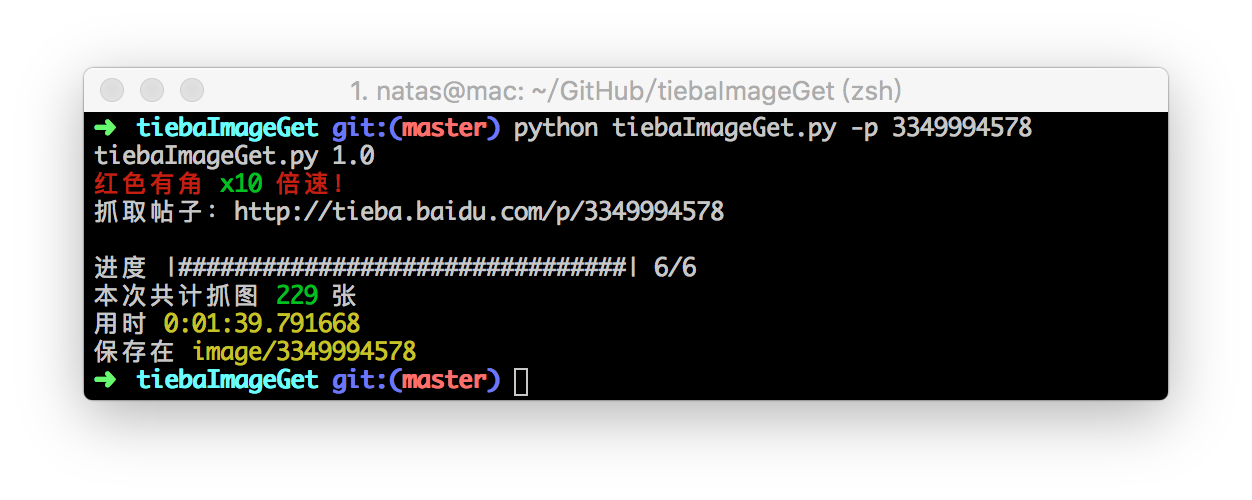
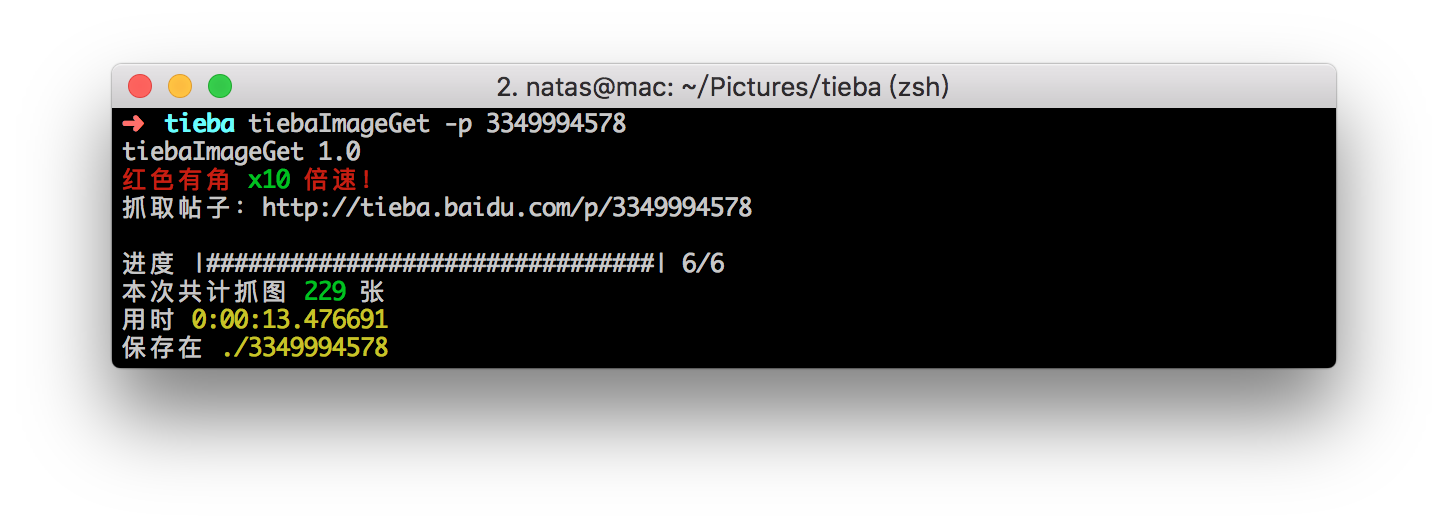
update README

Changed region(s): [[0.0623, 0.12, 0.9345, 0.81]]

diff --git a/README.md b/README.md
@@ -2,24 +2,36 @@ tiebaImageGet
 =============
 
 贴吧图楼爬图器
+### 安装
 
+	git clone https://github.com/zhaohui8969/tiebaImageGet
+	cd tiebaImageGet
+	python setup.py install
+	
 ### 用法
 - 下载帖子中的所有图片
 
-	`python tiebaImageGet.py -p 3349994578`
+	`tiebaImageGet -p 3349994578`
 
 - 开多个线程下载帖子中的图片
 
-	`python tiebaImageGet.py -p 3349994578 -t 50`
+	`tiebaImageGet -p 3349994578 -t 50`
+	
+- 下载图片到指定目录
+
+	`tiebaImageGet -p 3349994578 -t 50 -d output`
 	
 `-p PID`	帖子ID（比如http://tieba.baidu.com/p/3349994578，就是3349994578）
 
 `-t MAX_THREAD_NUM`	程序最大线程数（因为默认就是10线程的，所以帖子页数没有超过10页的话，就不用设置这里）
 
+`-d SAVE_DIRECTORY` 下载目录（默认是当前目录，目录不存在的话会自动创建）
+
 ![](doc/img1.png)
 ![](doc/img2.png)
+![](doc/img4.png)
 ![](doc/img3.png)
 
 
 ### License
-MIT
+GPLv2
